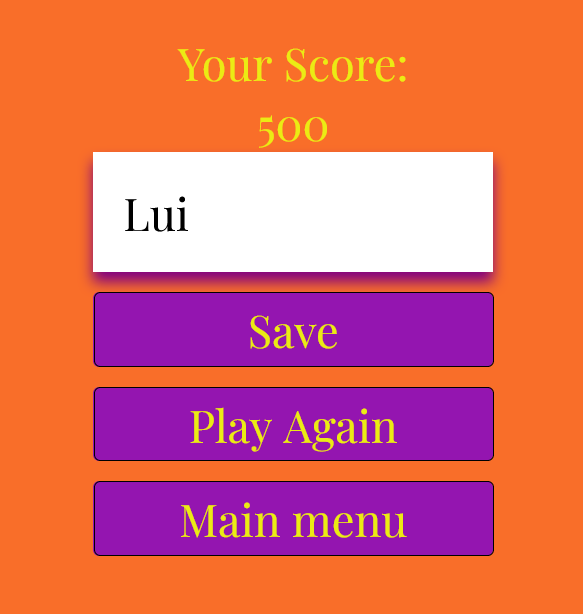
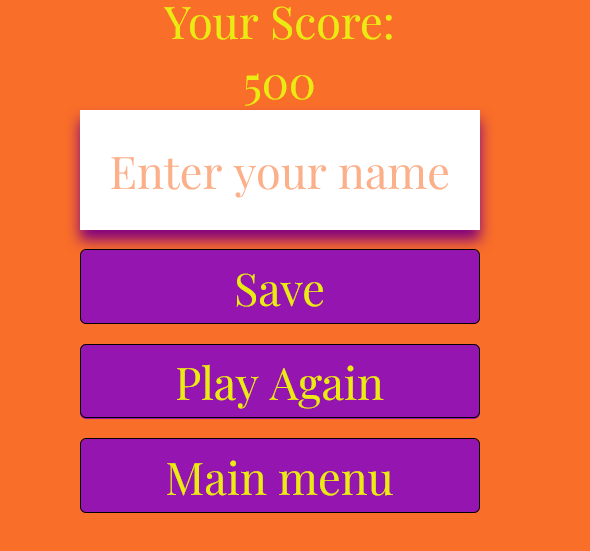
Add leaderboard and image to the readme

Changed region(s): [[0.1235, 0.0, 0.8645, 0.9564], [0.4014, 0.2777, 0.7719, 0.3702]]

diff --git a/README.md b/README.md
@@ -44,6 +44,11 @@ I explain the website features below.
 ![score](assets/images/score.png)
 
 - **Game Over page**
-  - At the end of the quiz, the users can save their high score and enter their name, play again, or go back to the main menu. 
+  - At the end of the quiz, the users can save their high score and enter their name, play again, or go back to the main menu. The form is easy to use and the placeholder helps the users.  
 
 ![gameover](assets/images/gameover.png)
+
+- **Leaderboard**
+  - This part shows the saved usernames with their scores. The lowest points are at the bottom of the page, and the highest points are at the top.
+
+![leaderboard2](assets/images/leaderboard.png)
